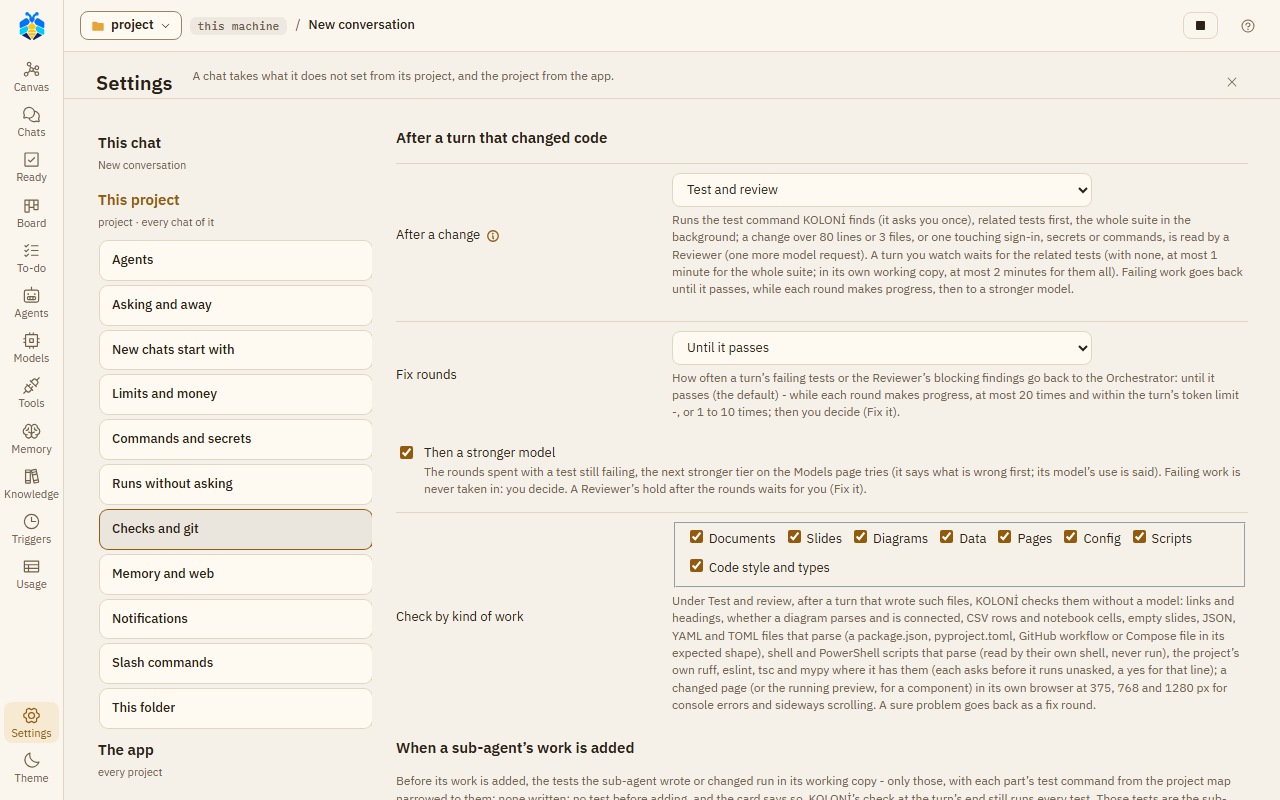
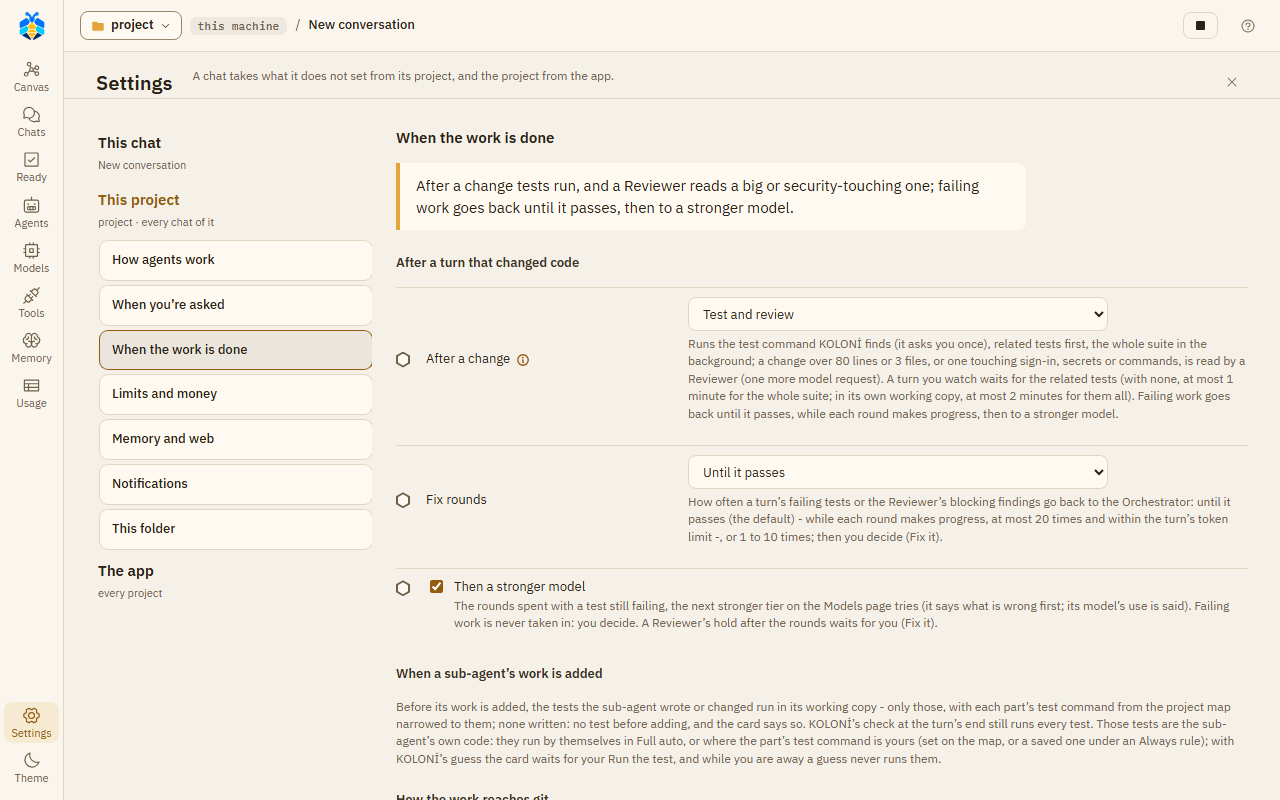
test(e2e): Settings' new section names and More; the guide's Settings pictures again
The specs that open Settings choose the sections by their 0.1.10 names and open
a More where what they set is folded; the contrast walks read what More folds
too. Retaken: settings-project.png (When you're asked), settings-checks.png
(When the work is done) and settings-app-test-runs.png.

diff --git a/frontend/e2e/35-project-settings.spec.ts b/frontend/e2e/35-project-settings.spec.ts
@@ -4,13 +4,10 @@ import { OWN, contrasts, openFreshConversation, rail, shot } from './helpers'
 test.use({ viewport: { width: 1440, height: 900 } })
 
 const SECTIONS = [
-  'Agents',
-  'Asking and away',
-  'New chats start with',
+  'How agents work',
+  'When you’re asked',
+  'When the work is done',
   'Limits and money',
-  'Commands and secrets',
-  'Runs without asking',
-  'Checks and git',
   'Memory and web',
   'Notifications',
   'This folder',
@@ -104,14 +101,19 @@ test('secret files are hidden from commands until the box is cleared, and cleare
   const settings = page.getByRole('form', { name: 'Project settings' })
   const hide = settings.getByLabel(/^Hide secret files from commands/)
   await page.getByRole('navigation', { name: 'Main' }).getByRole('button', { name: 'Settings' }).click()
-  await settings.getByRole('button', { name: /^Commands/ }).click()
+  // (When you’re asked › More since 0.1.10)
+  await settings.getByRole('button', { name: /^When you’re asked/ }).click()
+  await settings.getByRole('button', { name: /^More ·/ }).click()
   await expect(hide).toBeChecked()
   await hide.uncheck()
   await settings.getByRole('button', { name: 'Save' }).click()
   await expect(settings.getByRole('status')).toHaveText('Saved')
   await page.reload()
   await page.getByRole('navigation', { name: 'Main' }).getByRole('button', { name: 'Settings' }).click()
-  await settings.getByRole('button', { name: /^Commands/ }).click()
+  await settings.getByRole('button', { name: /^When you’re asked/ }).click()
+  // (Set here now: More says so before it is opened.)
+  await expect(settings.getByRole('button', { name: /^More ·/ })).toHaveAccessibleName('More · 6 settings, 1 set here')
+  await settings.getByRole('button', { name: /^More ·/ }).click()
   await expect(hide).not.toBeChecked()
 })
 
@@ -168,7 +170,8 @@ for (const theme of ['light', 'dark'] as const) {
     expect((await sent).postDataJSON()).toEqual({ auto_notes: true })
     await expect(settings.getByRole('button', { name: /^Memory and web/ })).toHaveText('Memory and web')
     await expect(settings.getByRole('status')).toHaveText('Saved')
-    await expect(settings.getByRole('button', { name: 'Save', exact: true })).toBeDisabled()
+    // (Nothing changed in it now: no save bar.)
+    await expect(settings.getByRole('button', { name: 'Save', exact: true })).toHaveCount(0)
     await expect(settings.getByRole('button', { name: /^Limits and money/ })).toHaveText('Limits and moneynot saved')
     // (a state the row is described by, not a word of its name: "not saved" would be found as a Save button)
     await expect(settings.getByRole('button', { name: /^Limits and money/ })).toHaveAccessibleName('Limits and money')
@@ -179,6 +182,10 @@ for (const theme of ['light', 'dark'] as const) {
       // Every piece of text of the page - the list with its marks, and each section - reads at 4.5 or more.
       for (const section of SECTIONS) {
         await settings.getByRole('button', { name: new RegExp(`^${section}`) }).click()
+        // (what is folded under More too)
+        await settings
+          .locator('.set-more-rows')
+          .evaluateAll(rows => rows.forEach(row => ((row as HTMLElement).hidden = false)))
         await settings
           .locator('.hint-bubble')
           .evaluateAll(hints => hints.forEach(hint => ((hint as HTMLElement).hidden = false)))
@@ -188,9 +195,9 @@ for (const theme of ['light', 'dark'] as const) {
     }
 
     // The keyboard goes down the list, and where it is shows.
-    await settings.getByRole('button', { name: /^Agents/ }).click()
+    await settings.getByRole('button', { name: /^How agents work/ }).click()
     await page.keyboard.press('Tab')
-    const next = settings.getByRole('button', { name: /^Asking and away/ })
+    const next = settings.getByRole('button', { name: /^When you’re asked/ })
     await expect(next).toBeFocused()
     expect(await next.evaluate(row => getComputedStyle(row).outlineStyle)).toBe('solid')
 

diff --git a/frontend/e2e/31-how-the-screens-read.spec.ts b/frontend/e2e/31-how-the-screens-read.spec.ts
@@ -461,6 +461,10 @@ for (const theme of ['light', 'dark'] as const)
       await root
         .locator('details.more, details.usage-fold')
         .evaluateAll(folds => folds.forEach(fold => ((fold as HTMLDetailsElement).open = true)))
+      // (Settings' More, 0.1.10: a button over what it folds)
+      await root
+        .locator('.set-more-rows')
+        .evaluateAll(rows => rows.forEach(row => ((row as HTMLElement).hidden = false)))
       await root
         .locator('.hint-bubble')
         .evaluateAll(hints => hints.forEach(hint => ((hint as HTMLElement).hidden = false)))
@@ -551,12 +555,10 @@ for (const theme of ['light', 'dark'] as const)
       await check(settings.locator('.agents-list'), 11)
       let pieces = 0
       for (const section of [
-        'Agents',
-        'Asking and away',
-        'New chats start with',
+        'How agents work',
+        'When you’re asked',
+        'When the work is done',
         'Limits and money',
-        'Commands and secrets',
-        'Checks and git',
         'Memory and web',
         'Notifications',
       ]) {
@@ -686,7 +688,7 @@ test('as the browser itself reads it out: a box named by a note with a hint keep
   await page.getByRole('navigation', { name: 'Main' }).getByRole('button', { name: 'Settings' }).click()
   const settings = page.getByRole('form', { name: 'Project settings' })
   await expect(settings).toBeVisible()
-  await settings.getByRole('button', { name: /^Checks/ }).click()
+  await settings.getByRole('button', { name: /^When the work is done/ }).click()
   await expect(settings.getByLabel(/^Save each sub-agent’s work as a git commit/)).toBeVisible()
   const [commit] = await readOut(page, /^Save each sub-agent’s work as a git commit/)
   expect(commit.name).toMatch(
@@ -710,7 +712,7 @@ test('as the browser itself reads it out: a box named by a note with a hint keep
   expect(await described()).not.toContain('About this')
   // A note that warns of what a setting does not hold, or of what it runs, is not folded at all. (0.1.7: Test before
   // adding is gone, with its field - what runs before a sub-agent's work is added is a note of its own, in sight.)
-  await settings.getByRole('button', { name: /^Checks/ }).click()
+  await settings.getByRole('button', { name: /^When the work is done/ }).click()
   await expect(
     settings.getByText(/^Before its work is added, the tests the sub-agent wrote or changed run/),
   ).toBeVisible()

diff --git a/frontend/e2e/guide-shots.spec.ts b/frontend/e2e/guide-shots.spec.ts
@@ -174,8 +174,9 @@ test('the Models, Settings › This project and Knowledge pages', async ({ page 
   await page.getByLabel('Message').waitFor()
   await page.getByRole('navigation', { name: 'Main' }).getByRole('button', { name: 'Settings' }).click()
   const settings = page.getByRole('form', { name: 'Project settings' })
-  // (At Asking and away: when you're away, Full auto's judge (0.1.9) and its box for your words (§8), disposable deletes.)
-  await settings.getByRole('button', { name: /^Asking and away/ }).click()
+  // (At When you’re asked: its sentence, Full auto's judge (0.1.9) and its box for your words (§8), when you're away;
+  // disposable deletes under More.)
+  await settings.getByRole('button', { name: /^When you’re asked/ }).click()
   await expect(settings.getByRole('checkbox', { name: /^Full auto’s judge/ })).toBeChecked()
   await expect(settings.getByRole('checkbox', { name: /^It also lets a delete or a push run/ })).toBeDisabled()
   await picture(page, 'settings-project')
@@ -789,11 +790,11 @@ test.describe('proven finish (0.1.6)', () => {
     await expect(chat.getByRole('switch', { name: 'Full auto’s judge' })).toBeChecked()
     await picture(page, 'level-menu-checks')
     await page.keyboard.press('Escape')
-    // This project › Checks and git: After a change with its live line, Fix rounds (Then a stronger model, once in),
-    // Check by kind of work, Found by KOLONİ.
+    // This project › When the work is done: its sentence, After a change with its live line, Fix rounds, Then a stronger
+    // model (Check by kind of work and Found by KOLONİ are under its More, below).
     await page.getByRole('navigation', { name: 'Main' }).getByRole('button', { name: 'Settings' }).click()
     const settings = page.getByRole('form', { name: 'Project settings' })
-    await settings.getByRole('button', { name: /^Checks and git/ }).click()
+    await settings.getByRole('button', { name: /^When the work is done/ }).click()
     await expect(settings.getByLabel('After a change')).toBeVisible()
     await expect(settings.getByLabel('Fix rounds')).toBeVisible()
     await picture(page, 'settings-checks')

diff --git a/frontend/e2e/53-own-commands.spec.ts b/frontend/e2e/53-own-commands.spec.ts
@@ -26,7 +26,9 @@ for (const theme of ['light', 'dark'] as const)
     await openFreshConversation(page)
     await page.getByRole('navigation', { name: 'Main' }).getByRole('button', { name: 'Settings' }).click()
     const settings = page.getByRole('form', { name: 'Project settings' })
-    await settings.getByRole('button', { name: /^Slash commands/ }).click()
+    // (How agents work › More since 0.1.10)
+    await settings.getByRole('button', { name: /^How agents work/ }).click()
+    await settings.getByRole('button', { name: /^More ·/ }).click()
     await settings.getByLabel('Name').fill(`test-yaz-${theme}`)
     await settings.getByLabel('What it does').fill('Write tests for it')
     await settings.getByLabel('Text it puts in the box').fill('Write tests for {args}')
@@ -54,7 +56,8 @@ for (const theme of ['light', 'dark'] as const)
     await box.fill('')
 
     await page.getByRole('navigation', { name: 'Main' }).getByRole('button', { name: 'Settings' }).click()
-    await settings.getByRole('button', { name: /^Slash commands/ }).click()
+    await settings.getByRole('button', { name: /^How agents work/ }).click()
+    await settings.getByRole('button', { name: /^More ·/ }).click()
     await settings.getByRole('button', { name: `Delete /test-yaz-${theme}` }).click()
     await expect(row).toHaveCount(0)
   })

diff --git a/frontend/e2e/03-sub-agents-and-roles.spec.ts b/frontend/e2e/03-sub-agents-and-roles.spec.ts
@@ -48,8 +48,8 @@ test('with "Always ask" a sub-agent waits for approval before it starts', async 
   await openFreshConversation(page)
   const chat = page.getByRole('region', { name: 'Chat' })
 
-  // (Every chat of the project follows it: Settings › This project › Asking and away - tek-ev.)
-  const settings = await projectSettings(page, /^Asking and away/)
+  // (Every chat of the project follows it: Settings › This project › When you’re asked - tek-ev.)
+  const settings = await projectSettings(page, /^When you’re asked/)
   await settings.getByLabel('Opening a sub-agent').selectOption('always')
   await saveSettings(page)
 
@@ -68,8 +68,8 @@ test('rejecting a sub-agent returns the decision to the lead', async ({ page }) 
   await openFreshConversation(page)
   const chat = page.getByRole('region', { name: 'Chat' })
 
-  // (Every chat of the project follows it: Settings › This project › Asking and away - tek-ev.)
-  const settings = await projectSettings(page, /^Asking and away/)
+  // (Every chat of the project follows it: Settings › This project › When you’re asked - tek-ev.)
+  const settings = await projectSettings(page, /^When you’re asked/)
   await settings.getByLabel('Opening a sub-agent').selectOption('always')
   await saveSettings(page)
 

diff --git a/frontend/e2e/48-lead-hands-code.spec.ts b/frontend/e2e/48-lead-hands-code.spec.ts
@@ -17,7 +17,7 @@ test('in a new conversation the Lead hands code to a Coder; switched to doing it
   await level(page, 'auto_edit')
 
   // (Every chat of the project follows it: Settings › This project › Agents - tek-ev.)
-  const settings = await projectSettings(page, /^Agents/)
+  const settings = await projectSettings(page, /^How agents work/)
   await expect(settings.getByLabel('Who changes the files')).toHaveValue('delegates')
   await page.getByRole('button', { name: 'Close settings' }).click()
 
@@ -34,11 +34,11 @@ test('in a new conversation the Lead hands code to a Coder; switched to doing it
     ['farewell.py', coder.id],
   ])
 
-  await projectSettings(page, /^Agents/)
+  await projectSettings(page, /^How agents work/)
   await settings.getByLabel('Who changes the files').selectOption('itself')
   await saveSettings(page)
   await expect.poll(async () => (await (await request.get(url)).json()).conversation.lead_hands_code).toBe(false)
   // opened again, it starts from what is saved
-  await projectSettings(page, /^Agents/)
+  await projectSettings(page, /^How agents work/)
   await expect(settings.getByLabel('Who changes the files')).toHaveValue('itself')
 })

diff --git a/frontend/e2e/k-tarayici-disari.spec.ts b/frontend/e2e/k-tarayici-disari.spec.ts
@@ -52,7 +52,7 @@ test('at Auto-edit an unlisted site is a card: This time keeps nothing, Allow th
   await card.getByRole('button', { name: 'Allow this site' }).click()
   await expect(chat.getByText('Opened the sites.')).toBeVisible({ timeout: 20_000 })
 
-  // The chat's link to what runs without asking (⚙ Chat) opens Settings › This project › Runs without asking (tek-ev): the
+  // The chat's link to what runs without asking (⚙ Chat) opens Settings › This project › When you’re asked, its rules shown (tek-ev): the
   // project's sites first - other.test alone, with its Ask first mark; one is added by hand, a refused one says why.
   await (await chatSheet(page)).getByRole('button', { name: '1 run without asking →' }).click()
   const sites = page.getByRole('form', { name: 'Project settings' }).getByRole('region', { name: 'Sites agents open' })

diff --git a/frontend/e2e/k-vekil-karar.spec.ts b/frontend/e2e/k-vekil-karar.spec.ts
@@ -21,8 +21,8 @@ for (const theme of ['light', 'dark'] as const) {
     const id = await openFreshConversation(page, { leadWrites: false })
     mkdirSync(SHOTS, { recursive: true })
 
-    // The setting: every chat's, in Settings › This project › Asking and away, with the minutes before the Lead answers (0: at once).
-    const settings = await projectSettings(page, /^Asking and away/)
+    // The setting: every chat's, in Settings › This project › When you’re asked, with the minutes before the Lead answers (0: at once).
+    const settings = await projectSettings(page, /^When you’re asked/)
     await expect(settings.getByLabel('When you’re away')).toHaveValue('waits')
     await settings.getByLabel('When you’re away').selectOption('lead')
     await settings.getByLabel('Minutes before the Orchestrator answers').fill('0')

diff --git a/frontend/e2e/k-evrim.spec.ts b/frontend/e2e/k-evrim.spec.ts
@@ -30,7 +30,9 @@ for (const theme of ['light', 'dark'] as const)
     // Project settings: the measure command, beside the test command, sent alone.
     await page.getByRole('navigation', { name: 'Main' }).getByRole('button', { name: 'Settings' }).click()
     const settings = page.getByRole('form', { name: 'Project settings' })
-    await settings.getByRole('button', { name: /^Checks/ }).click()
+    // (When the work is done › More since 0.1.10)
+    await settings.getByRole('button', { name: /^When the work is done/ }).click()
+    await settings.getByRole('button', { name: /^More ·/ }).click()
     // (its why behind ⓘ, describing the field)
     await expect(settings.getByLabel('Measure command')).toHaveAccessibleDescription(
       /^The last line of its output is a number from 0 to 100/,

diff --git a/frontend/e2e/109-full-auto-judge.spec.ts b/frontend/e2e/109-full-auto-judge.spec.ts
@@ -92,8 +92,8 @@ test('a command the judge finds risky is refused and the agent goes on; with Ask
   await expect(row.getByRole('button', { name: 'OK' })).toHaveCount(0)
   await rail(page, 'Canvas').click()
 
-  // Ask me, chosen in Settings › This project › Asking and away: its card.
-  const settings = await projectSettings(page, /^Asking and away/)
+  // Ask me, chosen in Settings › This project › When you’re asked: its card.
+  const settings = await projectSettings(page, /^When you’re asked/)
   await settings.getByLabel('When the judge finds a command risky').selectOption('ask')
   await saveSettings(page)
   await expect.poll(async () => (await (await request.get(`/api/projects/${pid}`)).json()).judge_risky).toBe('ask')

diff --git a/frontend/e2e/30-take-in.spec.ts b/frontend/e2e/30-take-in.spec.ts
@@ -36,7 +36,7 @@ test('the same line changed on both sides is asked about, the Coder’s own test
   // What runs before a sub-agent's work is added is said where the project's checks are: its own tests, no field (0.1.7).
   await page.getByRole('navigation', { name: 'Main' }).getByRole('button', { name: 'Settings' }).click()
   const settings = page.getByRole('form', { name: 'Project settings' })
-  await settings.getByRole('button', { name: /^Checks/ }).click()
+  await settings.getByRole('button', { name: /^When the work is done/ }).click()
   await expect(
     settings.getByText(/^Before its work is added, the tests the sub-agent wrote or changed run in its working copy/),
   ).toBeVisible()

diff --git a/frontend/e2e/02-commands.spec.ts b/frontend/e2e/02-commands.spec.ts
@@ -53,7 +53,7 @@ test('"Always run" adds a rule, the next run does not ask, and the rule can be r
   await openTurns(page)
   await expect(turns.last()).toHaveAttribute('aria-current', 'true')
 
-  // Removed in Settings › This project › Runs without asking, under the chat's title (tek-ev); ⚙ Chat links there.
+  // Removed in Settings › This project › When you’re asked › Runs without asking, under the chat's title (tek-ev); ⚙ Chat links there.
   await (await chatSheet(page)).getByRole('button', { name: '1 run without asking →' }).click()
   const rules = page
     .getByRole('form', { name: 'Project settings' })
